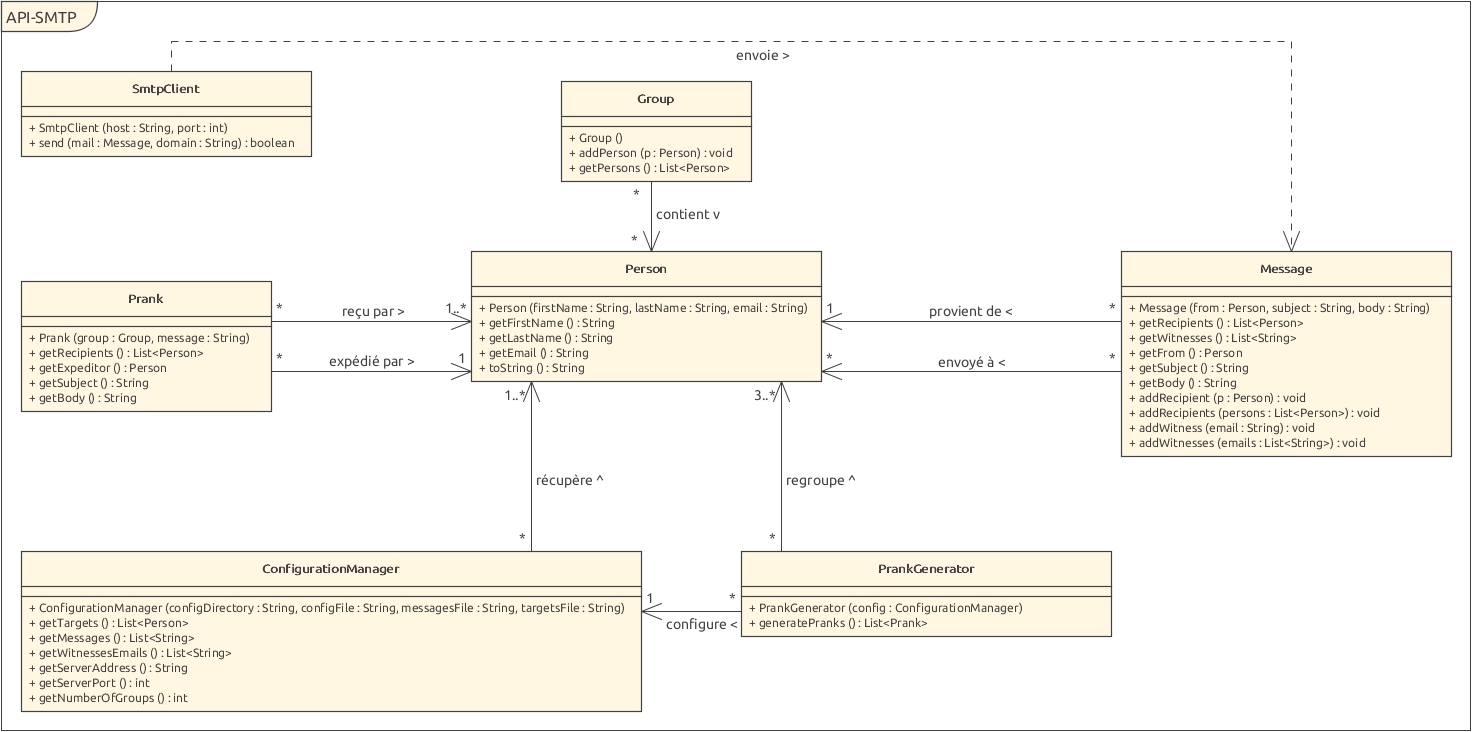
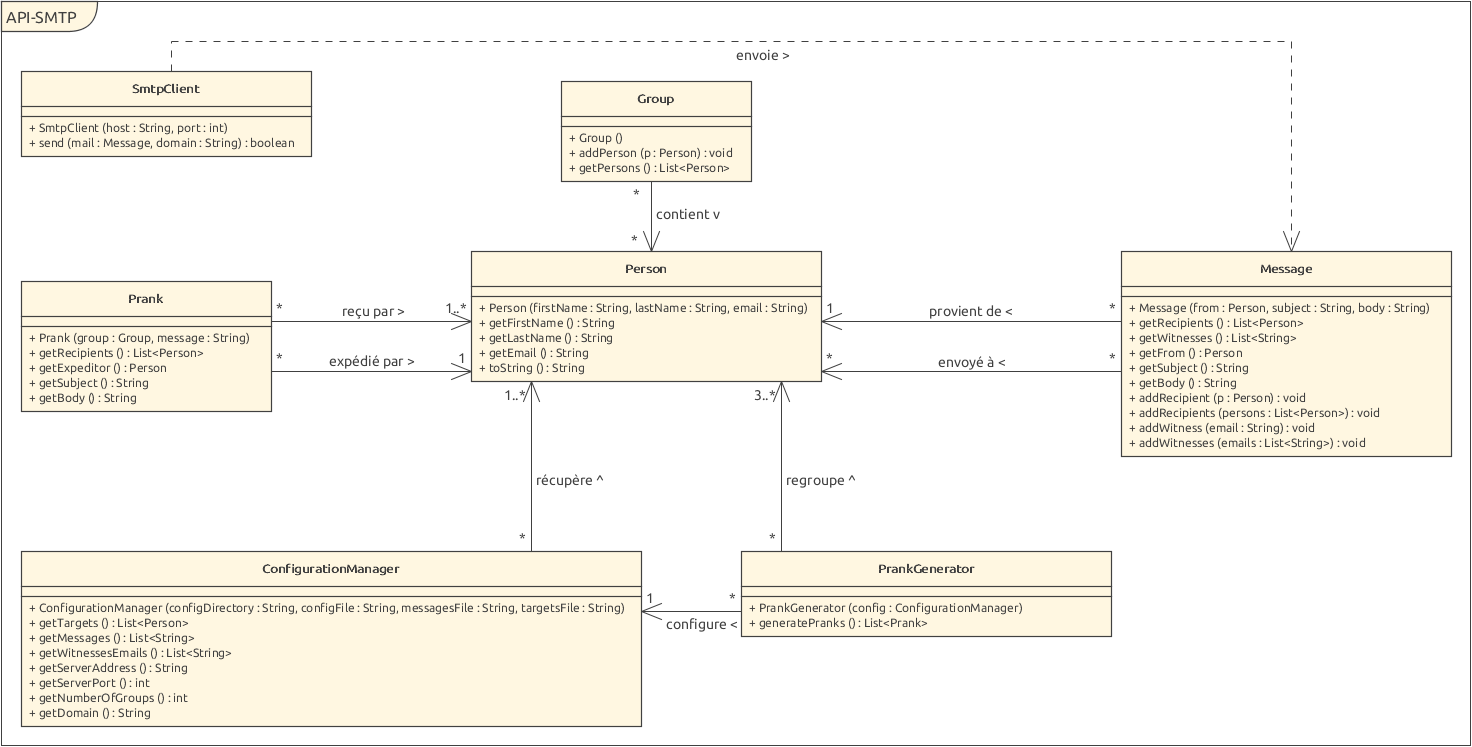
Ajout du domain dans le fichier de configuration

diff --git a/MailRobot/src/main/java/ch/heigvd/api/mailrobot/AppStarter.java b/MailRobot/src/main/java/ch/heigvd/api/mailrobot/AppStarter.java
@@ -22,8 +22,6 @@ public class AppStarter {
     private static final String MESSAGE_FILE = "messages.txt";
     private static final String TARGET_FILE = "targets.txt";
 
-    private static final String DOMAIN = "prank";
-
     private static final String[] DEFAULT_CONFIG_FILES = {
             "messages.default.txt",
             "targets.default.txt",
@@ -51,12 +49,14 @@ public class AppStarter {
 
             SmtpClient client = new SmtpClient(config.getServerAddress(), config.getServerPort());
             List<String> witnesses = config.getWitnessesEmails();
+            String domain = config.getDomain();
+            
             for (Prank prank : pranks) {
                 Message message = new Message(prank.getExpeditor(), prank.getSubject(), prank.getBody());
                 message.addRecipients(prank.getRecipients());
                 message.addWitnesses(witnesses);
 
-                if (!client.send(message, DOMAIN)) {
+                if (!client.send(message, domain)) {
                     System.out.println("Something went wrong.");
                 }
             }

diff --git a/MailRobot/src/main/java/ch/heigvd/api/mailrobot/config/ConfigurationManager.java b/MailRobot/src/main/java/ch/heigvd/api/mailrobot/config/ConfigurationManager.java
@@ -26,6 +26,7 @@ public class ConfigurationManager {
     private static final String DEFAULT_MESSAGE_SEPARATOR = "---";
     private static final String DEFAULT_TARGET_SEPARATOR = ":";
     private static final String DEFAULT_WITNESS_SEPARATOR = ",";
+    private static final String DEFAULT_DOMAIN = "prank";
 
     private static final int INVALID_VALUE = -1;
 
@@ -36,6 +37,8 @@ public class ConfigurationManager {
     private int serverPort;
     @Getter
     private int numberOfGroups;
+    @Getter
+    private String domain;
     private String messageSeparator;
     private String targetSeparator;
 
@@ -175,6 +178,7 @@ public class ConfigurationManager {
             serverAddress = prop.getProperty("serverAddress", "");
             serverPort = prop.getInteger("serverPort", INVALID_VALUE);
             numberOfGroups = prop.getInteger("numberOfGroups", INVALID_VALUE);
+            domain = prop.getProperty("domain", DEFAULT_DOMAIN);
 
             String witnesses = prop.getProperty("witnessesEmails", "");
             witnessesEmails = new ArrayList<>();

diff --git a/MailRobot/src/test/java/ch/heigvd/api/mailrobot/config/ConfigurationManagerTest.java b/MailRobot/src/test/java/ch/heigvd/api/mailrobot/config/ConfigurationManagerTest.java
@@ -16,6 +16,7 @@ class ConfigurationManagerTest extends TestWithFiles {
     private static final String ADDRESS = "localhost";
     private static final int PORT = 25;
     private static final int NB_GROUPS = 2;
+    private static final String DOMAIN = "prank";
     private static final String[] WITNESS_ADDRESSES = {"witness.address@heig-vd.ch", "witness2.address@heig-vd.ch"};
     private static final int MESSAGES_COUNT = 4;
     private static final int TARGETS_COUNT = 9;
@@ -27,6 +28,7 @@ class ConfigurationManagerTest extends TestWithFiles {
         assertEquals(ADDRESS, manager.getServerAddress());
         assertEquals(PORT, manager.getServerPort());
         assertEquals(NB_GROUPS, manager.getNumberOfGroups());
+        assertEquals(DOMAIN, manager.getDomain());
         assertArrayEquals(WITNESS_ADDRESSES, manager.getWitnessesEmails().toArray());
         assertEquals(MESSAGES_COUNT, manager.getMessages().size());
         assertEquals(TARGETS_COUNT, manager.getTargets().size());

diff --git a/README.md b/README.md
@@ -4,33 +4,39 @@
 
 ## Description du projet
 
-Ce projet contient une application permettant de faire des pranks sous forme d'email forgés.
-L'utilisateur peut définir une liste de messages et de personnes victimes desdits pranks, ainsi qu'un nombre de groupes (possibilité de séparer la liste des personnes afin de faire plusieurs pranks en une fois).
-L'application se charge ensuite de générer les emails en séparant la liste des personnes en plusieurs groupes et en séléctionnant un message aléatoirement.
-Les emails sont ensuite envoyés automatiquement aux différentes victimes.
+Ce projet contient une application permettant de faire des pranks sous forme d'email forgés. L'utilisateur peut définir
+une liste de messages et de personnes victimes desdits pranks, ainsi qu'un nombre de groupes (possibilité de séparer la
+liste des personnes afin de faire plusieurs pranks en une fois). L'application se charge ensuite de générer les emails
+en séparant la liste des personnes en plusieurs groupes et en séléctionnant un message aléatoirement. Les emails sont
+ensuite envoyés automatiquement aux différentes victimes.
 
 ## Configuration d'un serveur mock SMTP
 
-Un serveur mock est un serveur fictif qui simule un vrai serveur pouvant être utilisé pour des tests.
-Dans notre cas, nous avons utilisé le serveur SMTP [MockMock](https://github.com/tweakers/MockMock).
-Ce dernier implémente la réception d'emails ainsi que leur consultation via une interface web.
+Un serveur mock est un serveur fictif qui simule un vrai serveur pouvant être utilisé pour des tests. Dans notre cas,
+nous avons utilisé le serveur SMTP [MockMock](https://github.com/tweakers/MockMock). Ce dernier implémente la réception
+d'emails ainsi que leur consultation via une interface web.
 
 ### Configuration de Docker
 
-Nous avons rédigé un script [build-image.sh](./docker/build-image.sh) qui permet de compiler MockMock,
-copier le jar généré dans le dossier [docker](./docker) et construire l'image avec le tag ```mockmock```.
+Nous avons rédigé un script [build-image.sh](./docker/build-image.sh) qui permet de compiler MockMock, copier le jar
+généré dans le dossier [docker](./docker) et construire l'image avec le tag ```mockmock```.
 
 La recette décrivant l'image se trouve dans le fichier [Dockerfile](./docker/Dockerfile) et utilise comme image de base
-[openjdk](https://hub.docker.com/_/openjdk). Le fichier jar est ensuite copié dans le container. La commande exécutée
-au lancement du container est ```java -jar mockmock.jar```.
+[openjdk](https://hub.docker.com/_/openjdk). Le fichier jar est ensuite copié dans le container. La commande exécutée au
+lancement du container est ```java -jar mockmock.jar```.
 
-Les ports 25 et 8282 sont exposés grâce à la commande ```EXPOSE``` ce qui permet d'effectuer un mapping automatique si la commande ```docker run``` est exécutée avec le flag ```-P```.
+Les ports 25 et 8282 sont exposés grâce à la commande ```EXPOSE``` ce qui permet d'effectuer un mapping automatique si
+la commande ```docker run``` est exécutée avec le flag ```-P```.
 
 ### Utilisation
 
 1. Construire l'image en lançant le script [build-image.sh](./docker/build-image.sh)
-2. Lancer le container ```docker run -it -p <port1>:25 -p <port2>:8282 mockmock```, où <portX> correspond aux ports de la machine devant être remappés
-   - Il est aussi possible de l'exécuter avec ```docker run -it -P mockmock``` afin d'avoir des ports aléatoires puis de récupérer lesdits ports mappés avec ```docker ps```
+2. Lancer le container ```docker run -it -p <port1>:25 -p <port2>:8282 mockmock```, où <portX> correspond aux ports de
+   la machine devant être remappés
+
+- Il est aussi possible de l'exécuter avec ```docker run -it -P mockmock``` afin d'avoir des ports aléatoires puis de
+  récupérer lesdits ports mappés avec ```docker ps```
+
 3. Vérifier son fonctionnement en accédant à l'interface web à l'adresse ```localhost:<port2>```
 4. Des mails peuvent désormais être envoyés à l'adresse localhost sur le port <port1>
 
@@ -43,20 +49,25 @@ Afin de générer les pranks il faut modifier plusieurs fichiers :
 Ce fichier permet de configurer l'envoi des emails ainsi que la syntaxe pour lire les autres fichiers.
 
 Liste des propriétés :
+
 - serverAddress : adresse du serveur SMTP
 - serverPort : port utilisé pour la communication
 - numberOfGroups : nombre de groupes à générer à partir des adresses fournies
-(il doit y avoir au moins 3 adresses par groupe)
+  (il doit y avoir au moins 3 adresses par groupe)
+- domain : le domaine utilisé lors de l'envoi de la commande ```EHLO```
+    - Optionnel : valeur par défaut ```prank```
 - witnessesEmails : adresse email du ou des destinataire(s) en copie cachée.
-  - Syntaxe (en utilisant ```,``` comme séparateur) : ```witnessesEmails=<adresse1>,<adresse2>,[...]```
+    - Syntaxe (en utilisant ```,``` comme séparateur) : ```witnessesEmails=<adresse1>,<adresse2>,[...]```
 - messageSeparator : symbole(s) séparant les différents messages dans le fichier ```message.txt```
-  - Optionnel : valeur par défaut ```---```
+    - Optionnel : valeur par défaut ```---```
 - targetSeparator : symbole(s) séparant le nom, prénom et adresse de chaque personne dans le fichier ```targets.txt```
-  - Optionnel : valeur par défaut ```:```
-- witnessSeparator : symbole(s) séparant les différentes adresses de la propriété ```witnessesEmails``` spécifiée plus haut
-  - Optionnel : valeur par défaut ```,```
+    - Optionnel : valeur par défaut ```:```
+- witnessSeparator : symbole(s) séparant les différentes adresses de la propriété ```witnessesEmails``` spécifiée plus
+  haut
+    - Optionnel : valeur par défaut ```,```
 
 Syntaxe :
+
 ```
 <nomPropriété1>=<paramètre1>
 <nomPropriété2>=<paramètre2>
@@ -65,10 +76,11 @@ Syntaxe :
 
 ### Fichier messages.txt
 
-La liste des messages qui peuvent être envoyés.
-Ceux-ci doivent être séparés par la propriété ```messageSeparator``` définie dans le fichier ```config.propreties```
+La liste des messages qui peuvent être envoyés. Ceux-ci doivent être séparés par la propriété ```messageSeparator```
+définie dans le fichier ```config.propreties```
 
 Syntaxe (en utilisant ```---``` comme séparateur) :
+
 ```
 <sujet1>
 <message1>
@@ -83,13 +95,15 @@ Syntaxe (en utilisant ```---``` comme séparateur) :
 
 ### Fichier targets.txt
 
-La liste des personnes victimes du ou des prank(s) (expéditeurs et destinataires), comportant leur nom, prénom et adresse mail.
-Ces différents attributs doivent se trouver sur la même ligne et être séparés par la propriété ```targetSeparator``` définie dans le fichier ```config.properties```.
+La liste des personnes victimes du ou des prank(s) (expéditeurs et destinataires), comportant leur nom, prénom et
+adresse mail. Ces différents attributs doivent se trouver sur la même ligne et être séparés par la
+propriété ```targetSeparator``` définie dans le fichier ```config.properties```.
 
-Il faut au moins 3 personnes par groupe (nombre de groupes défini dans le fichier ```config.properties```) et par conséquent au minimum 3 personnes.
-A noter qu'une même personne peut apparaître dans le fichier plusieurs fois.
+Il faut au moins 3 personnes par groupe (nombre de groupes défini dans le fichier ```config.properties```) et par
+conséquent au minimum 3 personnes. A noter qu'une même personne peut apparaître dans le fichier plusieurs fois.
 
 Syntaxe (en utilisant ```:``` comme séparateur):
+
 ```
 <nom1>:<prenom1>:<adresseEmail1>
 <nom2>:<prenom2>:<adresseEmail2>
@@ -120,34 +134,35 @@ n'est pas le cas, un message est affiché indiquant quelle ligne est incorrecte 
 
 #### Prank
 
-Cette classe représente un prank, défini par un groupe de victimes et un message. La première personne du groupe sera choisie
-comme expéditeur et les autres personnes comme destinataires. Ceci implique qu'un prank nécessite un groupe d'au moins 2 personnes.
+Cette classe représente un prank, défini par un groupe de victimes et un message. La première personne du groupe sera
+choisie comme expéditeur et les autres personnes comme destinataires. Ceci implique qu'un prank nécessite un groupe d'au
+moins 2 personnes.
 
 #### PrankGenerator
 
-Cette classe permet de générer une liste de Prank à partir d'une instance de ConfigurationManager.
-Nous avons défini que les pranks générés par cette classe doivent être composés d'au moins 3 personnes.
-Si cette condition n'est pas validée, une exception est levée.
-Lorsque la taille des groupes, définie par le nombre de victimes divisé par le nombre de groupes voulus, n'est pas entier,
-le dernier groupe sera composé des personnes restantes.
+Cette classe permet de générer une liste de Prank à partir d'une instance de ConfigurationManager. Nous avons défini que
+les pranks générés par cette classe doivent être composés d'au moins 3 personnes. Si cette condition n'est pas validée,
+une exception est levée. Lorsque la taille des groupes, définie par le nombre de victimes divisé par le nombre de
+groupes voulus, n'est pas entier, le dernier groupe sera composé des personnes restantes.
 
 #### SmtpClient
 
 Cette classe est responsable de la communication avec le serveur SMTP et également de logger les différents échanges.
-L'implémentation est conforme à la norme [RFC 5321](https://datatracker.ietf.org/doc/html/rfc5321).
-Si une erreur survient lors de l'envoi d'un email, la communication est interrompue et une exception est levée.
+L'implémentation est conforme à la norme [RFC 5321](https://datatracker.ietf.org/doc/html/rfc5321). Si une erreur
+survient lors de l'envoi d'un email, la communication est interrompue et une exception est levée.
 
 #### AppStarter
 
-Cette classe est le point d'entrée du programme et est responsable de son bon fonctionnement.
-Des fichiers de configuration par défaut sont générés si l'application est exécutée avec le paramètre ```-c```, puis le programme s'arrête.
-Sinon, l'application est lancée normalement et va effectuer des pranks.
+Cette classe est le point d'entrée du programme et est responsable de son bon fonctionnement. Des fichiers de
+configuration par défaut sont générés si l'application est exécutée avec le paramètre ```-c```, puis le programme
+s'arrête. Sinon, l'application est lancée normalement et va effectuer des pranks.
 
 #### Person
 
 Cette classe modélise une personne et garanti que cette dernière possède obligatoirement une adresse email.
 
 ### Exemple de dialogue
+
 ```
 S: 220 host.docker.internal ESMTP MockMock SMTP Server version 1.4
 C: EHLO prank
